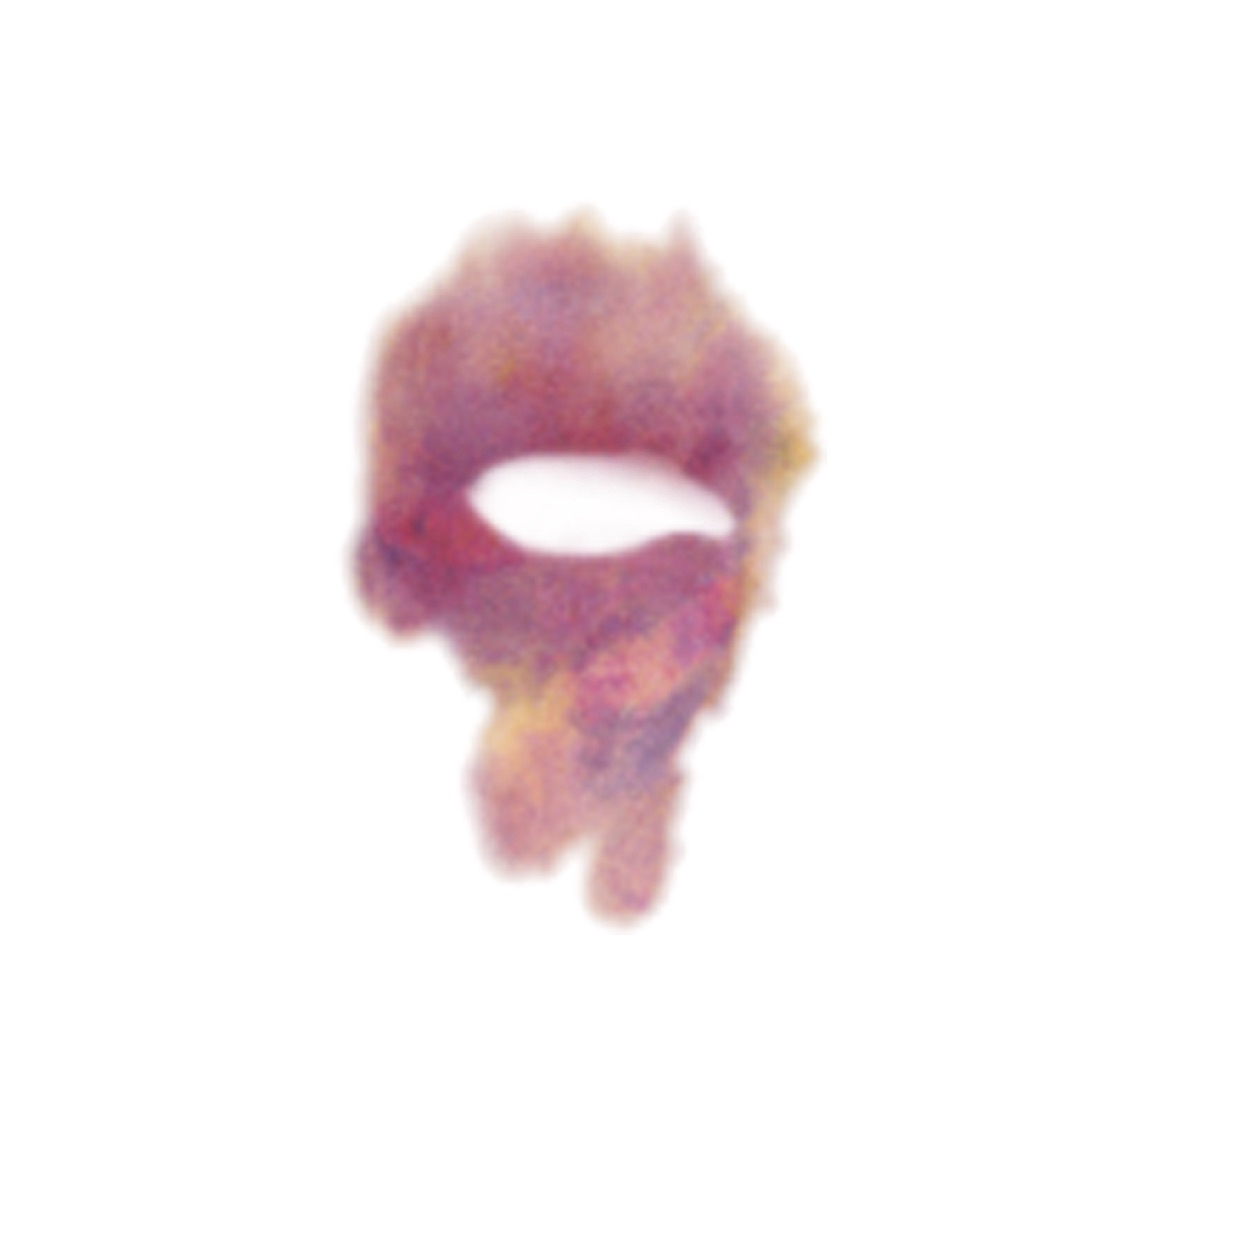
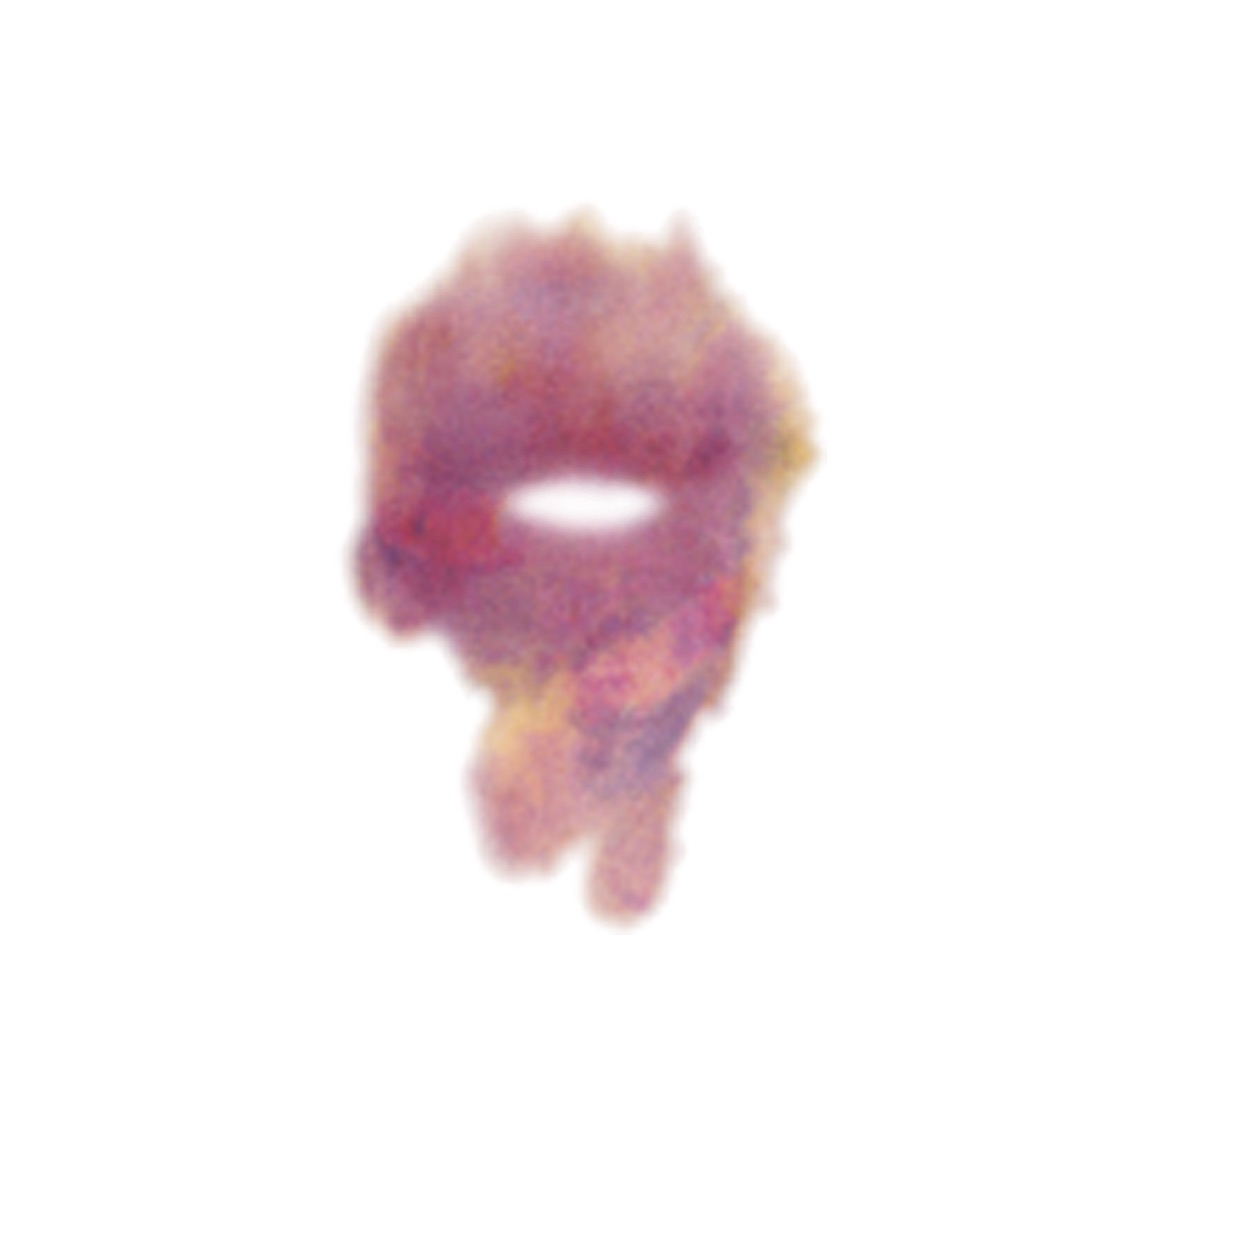
Update textures, tweak F2 mapping, bump version
Add new image assets (assets/Img_2.jpeg, assets/Img_6.jpeg) and update existing images (assets/Img_1.jpeg, assets/tex2.jpeg). Adjust F2 material texture parameters in index.html to reposition and scale the texture (offsetX: -0.325, offsetY: -0.15, repeatX/Y: 1.5) and bump UI version tag from v1.30 to v1.41 to reflect the change.

Changed region(s): [[0.3732, 0.3421, 0.5909, 0.4665]]

diff --git a/index.html b/index.html
@@ -248,7 +248,7 @@
 
     <div id="loadingScreen">Loading...</div>
 
-    <div id="versionTag">v1.30</div>
+    <div id="versionTag">v1.41</div>
 
     <div id="flashOverlay"></div>
 
@@ -360,13 +360,13 @@
                     textureSrc: 'assets/tex2.jpeg',
                     graphId: '02f209c5-68f9-4521-96d8-3767638da001',
                     name: 'F2',
-                    offsetX: 0,
-                    offsetY: 0.15,
+                    offsetX: -0.325,
+                    offsetY: -0.15,
                     metalness: 0,
                     roughness: 0,
                     opacity: 1,
-                    repeatX: 1,
-                    repeatY: 1,
+                    repeatX: 1.5,
+                    repeatY: 1.5,
                     blending: 'multiply',
                     depthTest: true,
                     depthWrite: true,
